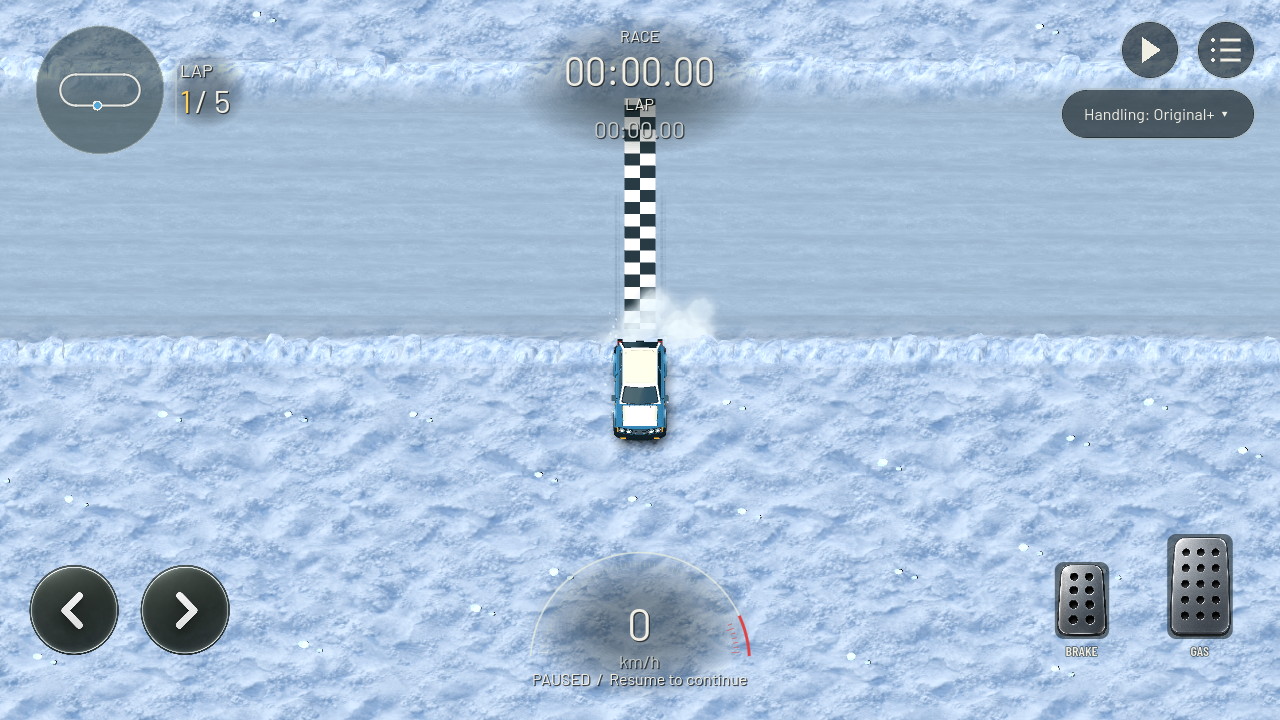
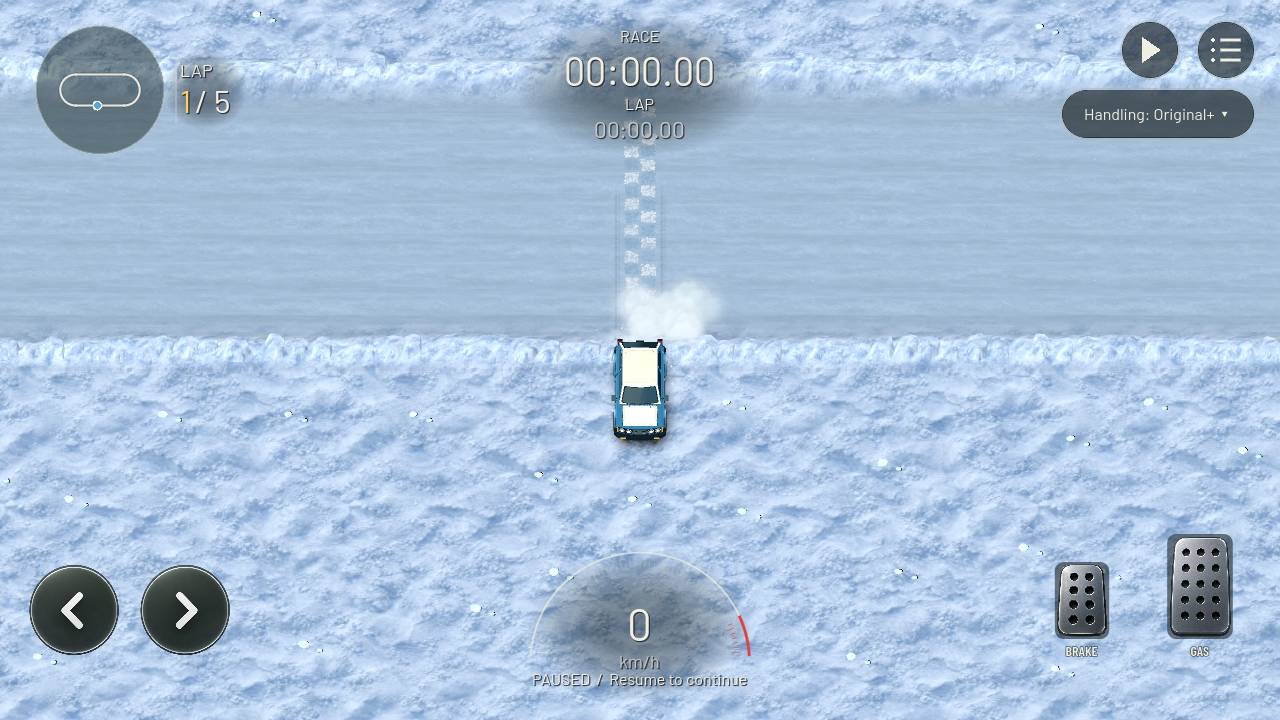
Adapt worn finish checker treatment to winter

Changed region(s): [[0.4688, 0.1222, 0.5625, 0.4583], [0.5312, 0.4583, 0.5625, 0.4889]]

diff --git a/docs/WINTER_SURFACES.md b/docs/WINTER_SURFACES.md
@@ -1,5 +1,14 @@
 # Winter road, snowbanks and ground
 
+## Winter finish marking: kit 78
+
+2026-09-24, V02/V04/V05/Q01. Owner requests the desert finish style adapted to winter. The same two-row 0.54 m worn checker geometry and abrasion shader now accept a winter palette (#d1dee5 frost white / #647987 slate blue). Translucent pigment exposes the approved icy road; timing center, direction and width remain unchanged. Winter marking height is 0.030 m to sit above the road's soft snow transition. Desert palette and geometry remain intact.
+
+Changed files: `game/track/native_track_visual.gd` (shared faded-finish builder and winter palette), `game/tests/capture_winter.gd` (material/node checks and evidence destination), status/plan/report and screenshots. No new artwork or dependencies.
+
+Actual commands through pinned Godot 4.7.2: `powershell -NoProfile -ExecutionPolicy Bypass -File scripts/dev.ps1 -Action CaptureWinter` passes 143 checks; `-Action TestDesert` passes 53 checks. [Winter finish gameplay screenshot](evidence/winter-finish/driving.png) inspected. `git diff --cached --check` passes. No phone test or Android export/install; owner contrast approval and device visibility remain pending. The low-contrast slate pigment intentionally blends into the icy road.
+
+
 ## Owner tint adjustment: kit 77
 
 2026-09-24, V02/V04/V05/Q01. Owner requests a hint of blue in the pale road. Shared `winter_ice.gdshaderinc` base changes to linear RGB (0.435, 0.475, 0.515), retaining luminance-only subdued texture. `native_track_visual.gd` increments kit version and `capture_winter.gd` saves separate evidence. No geometry/handling changes or new artwork.

diff --git a/DEVELOPMENT_STATUS.md b/DEVELOPMENT_STATUS.md
@@ -1,5 +1,7 @@
 # Development status
 
+2026-09-24 V02/V04/V05/Q01: kit 78 adapts desert worn/translucent finish checkers to winter frost-white and slate-blue pigments. CaptureWinter 143 and TestDesert 53 checks pass; desktop screenshot inspected. No phone test/export. See docs/WINTER_SURFACES.md.
+
 2026-09-24 V02/V04/V05/Q01: winter-specific ice scuffs, loose/packed snow ruts, slush wakes, tyre chips/powder and pooled snowbank-impact clouds. CaptureWinter 138, TestSoil 163, TestIce 69 and TestDesert 53 checks pass; desktop effects evidence inspected. No phone test/export. See docs/WINTER_TYRE_EFFECTS.md.
 
 2026-09-24 R01/G01/V03/V05/Q01: Play selection removes duplicate raster coverage work and improves four-track LRU/cache supersession. Final desktop cold selection 510→375 ms (Speedy), 601→481 ms (Knot); attached DN2103 cold 691/874 ms, cached 36 ms. Compiler equivalence 27, menu loading 19, road pieces 362 and quick Android checks pass; APK installed and normal play restored. Older free-editor UI assertion still fails. Race hitch remains unconfirmed. See docs/MENU_SELECTION_2026_09_24.md.

diff --git a/docs/PHASE_0_PLAN.md b/docs/PHASE_0_PLAN.md
@@ -1,5 +1,7 @@
 # Phase 0: specification review and first slice
 
+2026-09-24 V02/V04/V05/Q01: kit 78 adapts desert worn/translucent finish checkers to winter frost-white and slate-blue pigments. CaptureWinter 143 and TestDesert 53 checks pass; desktop screenshot inspected. No phone test/export. See docs/WINTER_SURFACES.md.
+
 2026-09-24 V02/V04/V05/Q01: winter-specific ice scuffs, loose/packed snow ruts, slush wakes, tyre chips/powder and pooled snowbank-impact clouds. CaptureWinter 138, TestSoil 163, TestIce 69 and TestDesert 53 checks pass; desktop effects evidence inspected. No phone test/export. See docs/WINTER_TYRE_EFFECTS.md.
 
 2026-09-24 R01/G01/V03/V05/Q01: measured Play selection optimization with unchanged compiled track output, LRU cache and safe cached-choice supersession. Desktop/attached-phone measurements and regression outcomes, including the unresolved old free-editor UI assertion: [MENU_SELECTION_2026_09_24.md](MENU_SELECTION_2026_09_24.md). Intermittent race hitch remains a separate open investigation.
